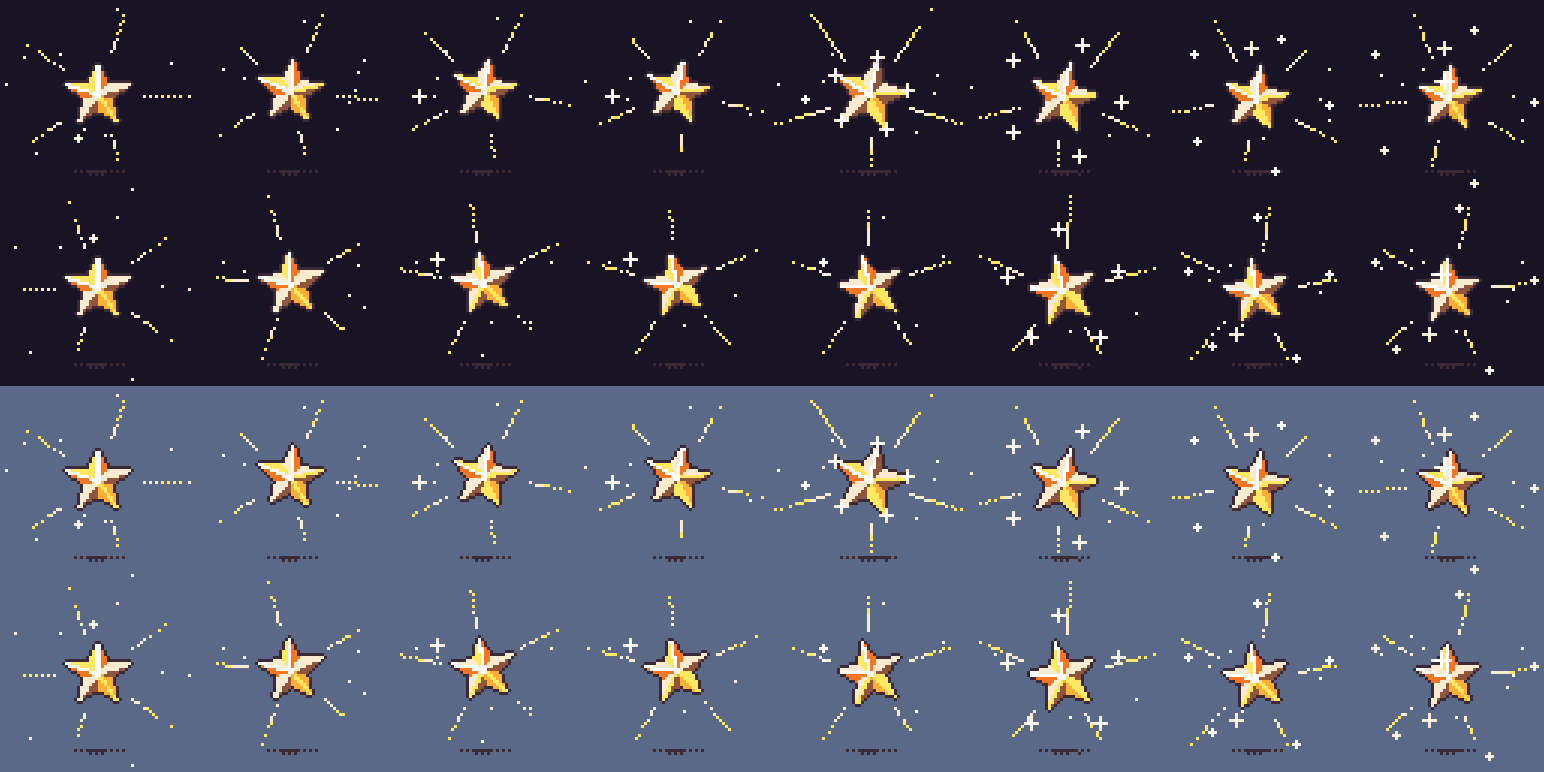
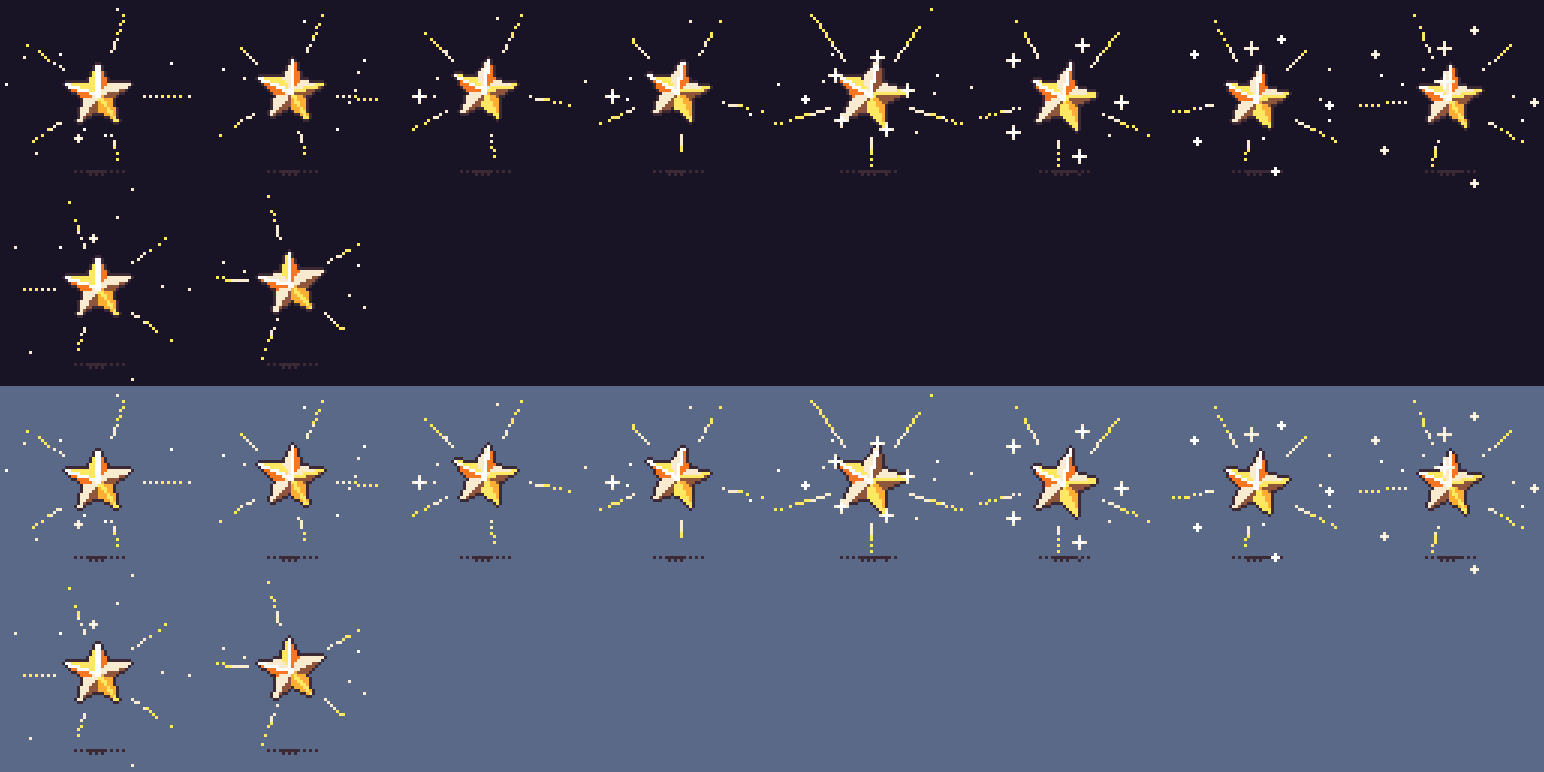
pixelfx: звездопад и сердечки постоянного покупателя (#209)
- «Звездопад»: вместо белых чёрточек раз в пару секунд настоящие падающие
  звёзды pixelfx (arcane/star-fall) с кольцом на земле — только снаружи:
  в зал не падают. Случайные точки те же, ход дня не меняется.
- Постоянный покупатель привязался сильнее: облачко сердечек вокруг него
  (status/charmed) вдобавок к облачку с сердцем.

Остальное из групп «значки» и «атмосфера» не берём: усталость персонала из
игры убрана 02.11, облачка эмоций уже есть свои; северное сияние, бабочки,
птицы pixelfx нарисованы сбоку и с небом — к виду сверху не подходят.

Claude-Session: https://claude.ai/code/session_01SnNw6vHiwwUvTaYJ7YfJoX

diff --git a/src/scenes/bigDays.ts b/src/scenes/bigDays.ts
@@ -51,6 +51,7 @@ import * as staff from './staff';
 import * as persons from './persons';
 import * as visitors from './visitors';
 import * as liveFx from './liveFx';
+import * as pixelFx from './pixelFx';
 
 /** После волны: осколки улеглись — полки перерисовываются. */
 const QUAKE_SETTLE_MS = 700;
@@ -285,6 +286,7 @@ export function startBigDayScene(
   }
   if (id === 'tourbus') at(0.3, () => tourBus(scene, keep));
   if (id === 'starfall') {
+    let starTick = 0;
     keep(
       scene.time.addEvent({
         delay: 700,
@@ -294,6 +296,18 @@ export function startBigDayScene(
           const view = scene.cameras.main.worldView;
           const x = Phaser.Math.Between(view.x, view.x + view.width * 0.7);
           const y = Phaser.Math.Between(view.y, view.y + view.height * 0.4);
+          // С пиксельными эффектами — раз в два с небольшим секунды настоящий звездопад pixelfx: звёзды
+          // падают на хвостах и гаснут кольцом на земле. Место — те же случайные x, y, что у чёрточек:
+          // ход дня от эффектов не меняется. Только снаружи: падает в зал (на крышу магазина) — сдвигаем
+          // на улицу перед магазином.
+          if (!pixelFx.calm(scene)) {
+            if (++starTick % 3 !== 0) return;
+            const lx = x + 28;
+            let ly = y + view.height * 0.3;
+            if (lx > -60 && lx < w + 60 && ly > -30 && ly < h + FACADE_H + 20) ly = h + FACADE_H + 36;
+            pixelFx.burst(scene, 'starfall', lx, ly, { depth: LIGHT_DEPTH + 2, zoom: 2 });
+            return;
+          }
           const star = scene.add.rectangle(x, y, 10, 0.8, 0xffffff).setOrigin(1, 0.5).setRotation(0.45).setDepth(LIGHT_DEPTH + 2).setBlendMode(Phaser.BlendModes.ADD);
           scene.tweens.add({ targets: star, x: x + 56, y: y + 27, alpha: 0, duration: 800, onComplete: () => star.destroy() });
         },

diff --git a/src/scenes/fxSheets.ts b/src/scenes/fxSheets.ts
@@ -29,6 +29,8 @@ export const FX_SHEETS = {
   star: {"key":"star","source":"pickups/power-star","frames":10,"fps":10,"loop":false,"w":63,"h":63,"ox":0.5079,"oy":0.8889,"down":1,"blend":"normal"},
   sunburst: {"key":"sunburst","source":"holy/sunburst","frames":10,"fps":10,"loop":false,"w":44,"h":45,"ox":0.5455,"oy":0.4889,"down":2,"blend":"normal"},
   beam: {"key":"beam","source":"pickups/loot-beam","frames":10,"fps":8,"loop":false,"w":54,"h":154,"ox":0.5,"oy":0.961,"down":1,"blend":"add"},
+  hearts: {"key":"hearts","source":"status/charmed","frames":16,"fps":10,"loop":false,"w":40,"h":51,"ox":0.5,"oy":1.1765,"down":1,"blend":"normal"},
+  starfall: {"key":"starfall","source":"arcane/star-fall","frames":26,"fps":10,"loop":false,"w":152,"h":136,"ox":0.5592,"oy":0.9412,"down":1,"blend":"add"},
   coindrop: {"key":"coindrop","source":"spawn/coin-drop","frames":31,"fps":10,"loop":false,"w":104,"h":61,"ox":0.5962,"oy":0.9016,"down":1,"blend":"normal"},
 } as const satisfies Record<string, FxSheet>;
 

diff --git a/src/scenes/shoppers.ts b/src/scenes/shoppers.ts
@@ -92,6 +92,7 @@ import {
 } from './common';
 import * as motion from './motion';
 import * as effects from './effects';
+import * as pixelFx from './pixelFx';
 import * as pets from './pets';
 import * as weatherFx from './weatherFx';
 import * as food from './food';
@@ -253,6 +254,8 @@ export function regularVerdict(scene: StoreScene, c: Customer): void {
   const y = c.sprite.y - 24;
   if (result === 'up') {
     effects.emote(scene, c.sprite, 'emo_heart');
+    // Облачко сердечек pixelfx вокруг него — привязался к магазину сильнее.
+    pixelFx.burst(scene, 'hearts', c.sprite.x, c.sprite.y, { fade: 1100, zoom: 1 });
     scene.popup(c.sprite.x, y, t('regular.up', { name }), '#c8ffb0');
     const total = c.items.reduce((sum, item) => sum + unitSalePrice(scene.state, item.id, item.unit), 0);
     // Благоустроенный район (hood.ts): постоянные щедрее.
